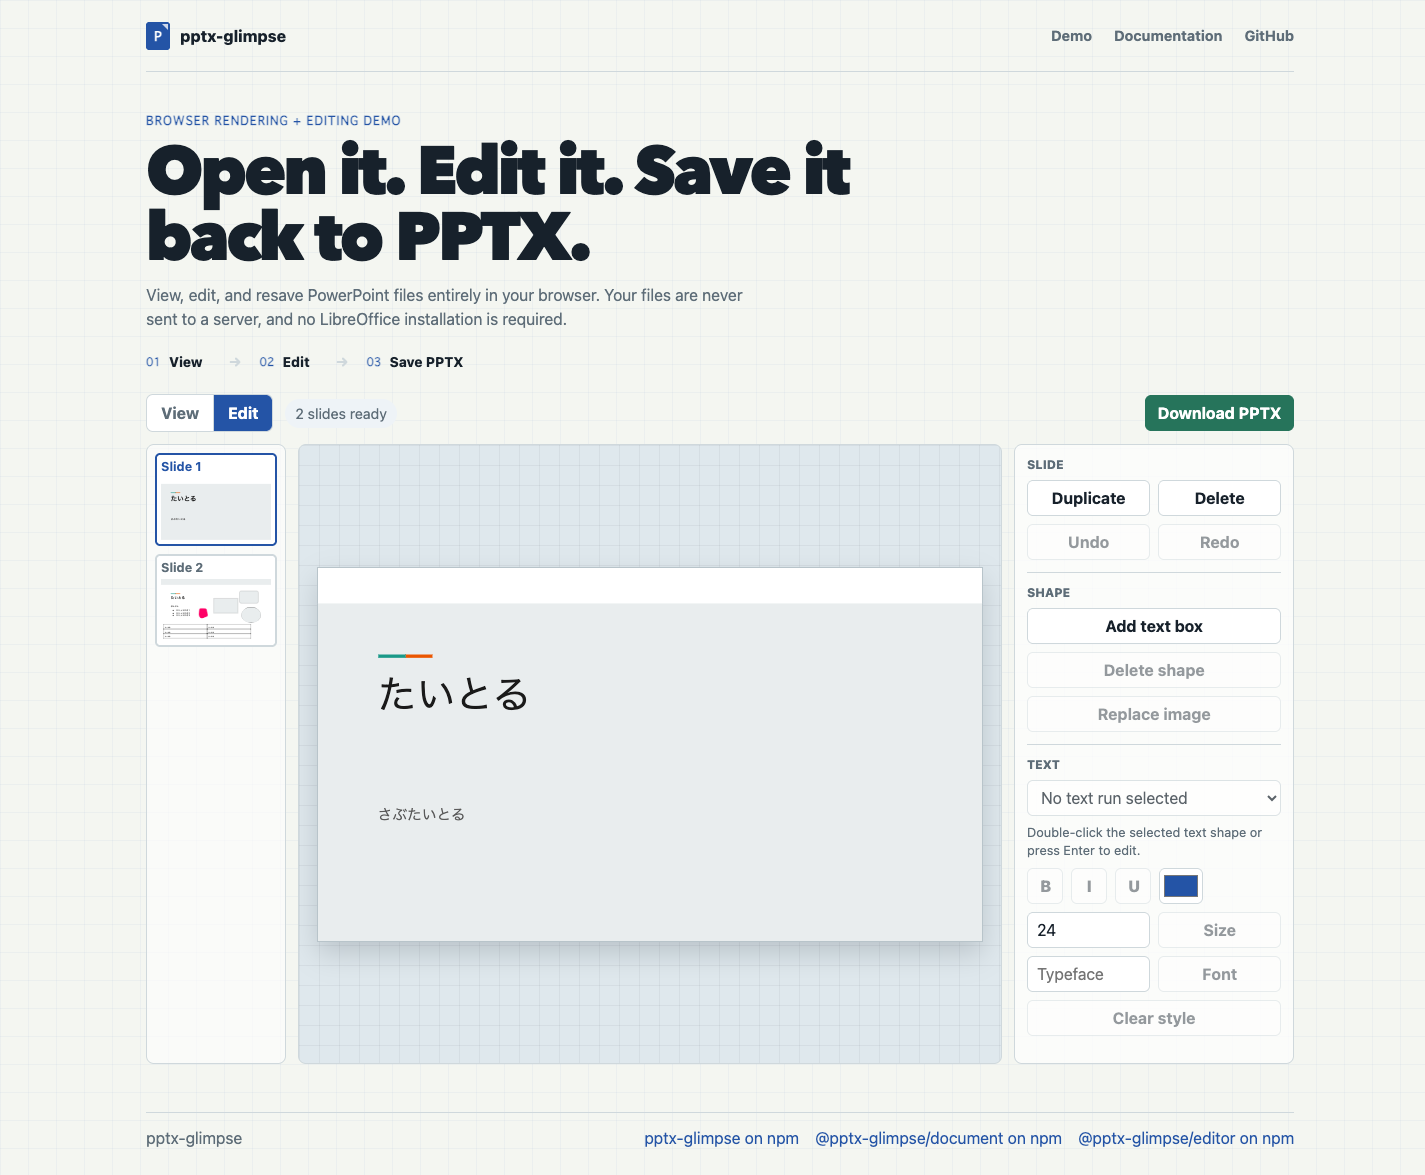
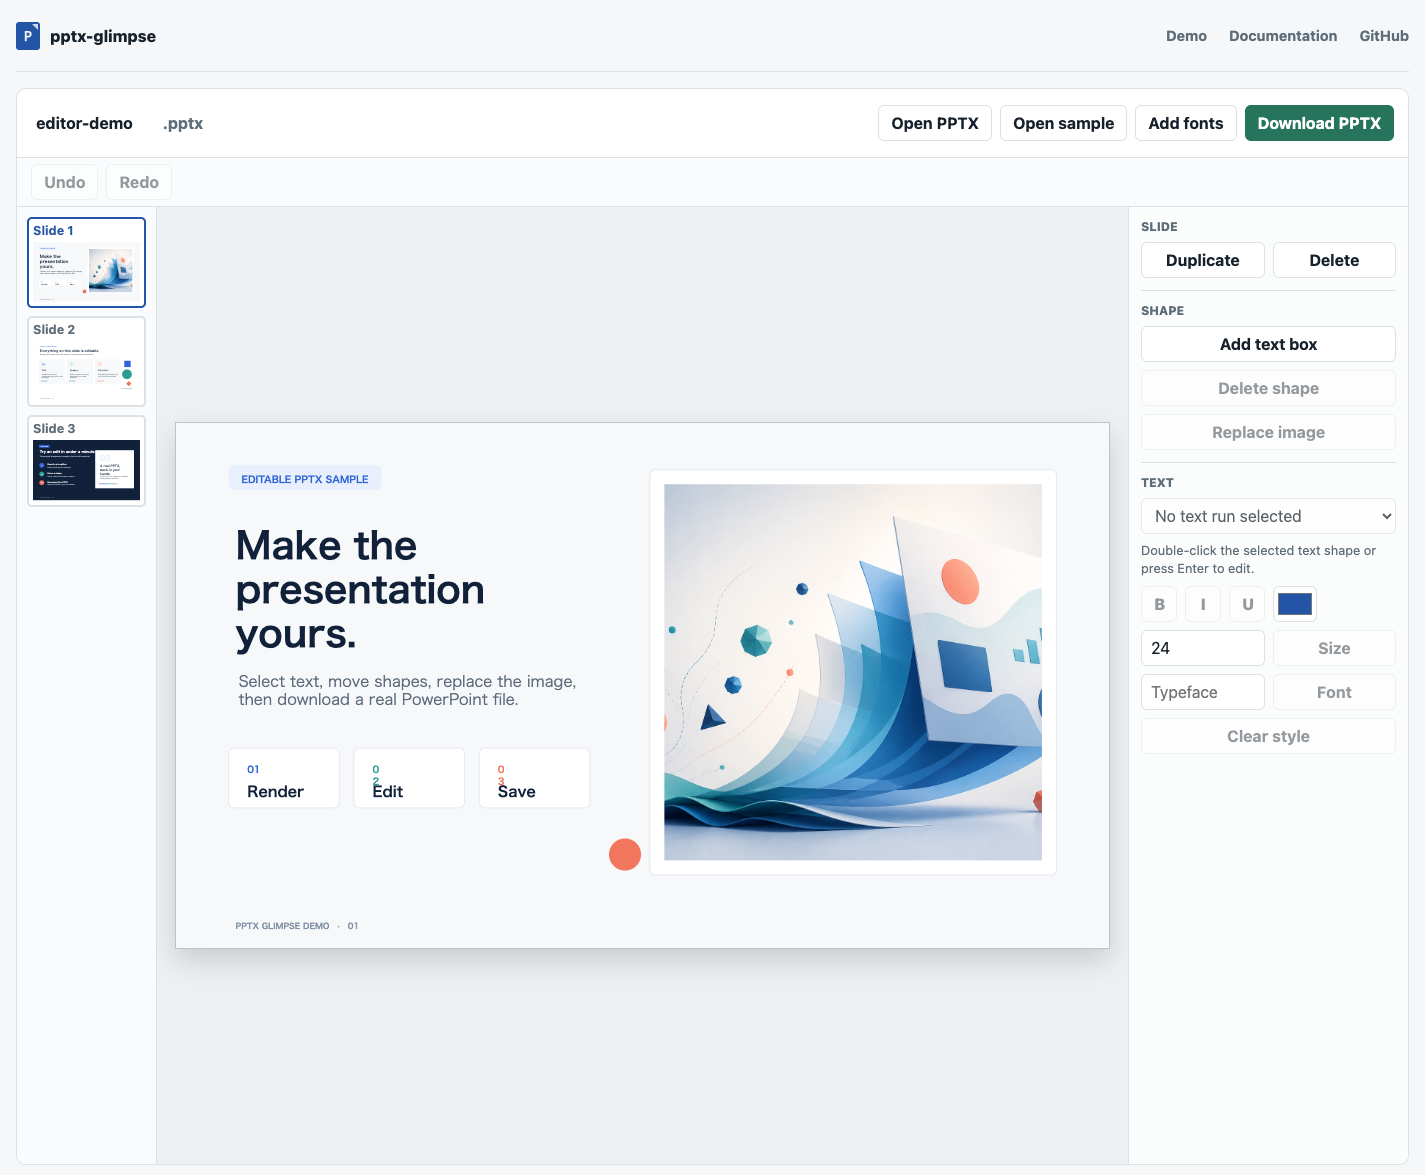
feat(demo): make the download filename editable

diff --git a/e2e/demo-browser-editor.playwright.ts b/e2e/demo-browser-editor.playwright.ts
@@ -84,7 +84,8 @@ test("opens the sample editor first and replaces it with an uploaded PPTX", asyn
 
   await page.goto(demoServer.url);
   await expect(page.getByTestId("editor-workspace")).toBeVisible();
-  await expect(page.getByText("editor-demo.pptx")).toBeVisible();
+  const fileNameInput = page.getByRole("textbox", { name: "Presentation file name" });
+  await expect(fileNameInput).toHaveValue("editor-demo");
   await expect(page.getByRole("button", { name: "Open PPTX" })).toBeVisible();
   await expect(page.getByRole("button", { name: "Download PPTX" })).toBeVisible();
 
@@ -92,7 +93,7 @@ test("opens the sample editor first and replaces it with an uploaded PPTX", asyn
     .getByTestId("pptx-input")
     .setInputFiles(resolve(repoRoot, "shared-fixtures/real-product-page.pptx"));
   await expect(page.getByTestId("editor-workspace")).toBeVisible();
-  await expect(page.getByText("real-product-page.pptx")).toBeVisible();
+  await expect(fileNameInput).toHaveValue("real-product-page");
 
   await page.getByRole("button", { name: "Add text box" }).click();
   page.once("dialog", async (dialog) => {
@@ -100,7 +101,7 @@ test("opens the sample editor first and replaces it with an uploaded PPTX", asyn
     await dialog.dismiss();
   });
   await page.getByRole("button", { name: "Open sample" }).click();
-  await expect(page.getByText("real-product-page.pptx")).toBeVisible();
+  await expect(fileNameInput).toHaveValue("real-product-page");
 
   page.once("dialog", (dialog) => dialog.dismiss());
   await page.getByRole("link", { name: "Documentation" }).click();
@@ -111,13 +112,13 @@ test("opens the sample editor first and replaces it with an uploaded PPTX", asyn
     mimeType: "application/vnd.openxmlformats-officedocument.presentationml.presentation",
     buffer: Buffer.from("not a PPTX"),
   });
-  await expect(page.getByRole("alert")).toBeVisible();
-  await expect(page.getByText("real-product-page.pptx")).toBeVisible();
+  await expect(page.locator(".replacement-error")).toBeVisible();
+  await expect(fileNameInput).toHaveValue("real-product-page");
 
   page.once("dialog", (dialog) => dialog.accept());
   await page.getByRole("button", { name: "Open sample" }).click();
   await expect(page.getByTestId("editor-workspace")).toBeVisible();
-  await expect(page.getByText("editor-demo.pptx")).toBeVisible();
+  await expect(fileNameInput).toHaveValue("editor-demo");
   await expect(
     page.getByRole("heading", { name: "pptx-glimpse browser editor demo" }),
   ).toBeAttached();
@@ -137,6 +138,9 @@ test("runs the public demo browser editor flow entirely client-side", async ({ p
 
     await page.goto(demoServer.url);
     await expect(page.getByTestId("editor-workspace")).toBeVisible();
+    const fileNameInput = page.getByRole("textbox", { name: "Presentation file name" });
+    await expect(fileNameInput).toHaveValue("editor-demo");
+    await fileNameInput.fill("browser-workshop");
 
     const slideFrame = page.getByTestId("editor-slide-frame");
     const firstEditableTextShape = page
@@ -190,7 +194,9 @@ test("runs the public demo browser editor flow entirely client-side", async ({ p
     await directTextRun.fill("Direct edit saved");
     const focusoutDownload = page.waitForEvent("download");
     await page.getByRole("button", { name: "Download PPTX" }).click();
-    await (await focusoutDownload).saveAs(focusoutSavedPath);
+    const focusoutDownloadedFile = await focusoutDownload;
+    expect(focusoutDownloadedFile.suggestedFilename()).toBe("browser-workshop.pptx");
+    await focusoutDownloadedFile.saveAs(focusoutSavedPath);
     await expect(directTextEditor).toHaveCount(0);
     await expect(slideFrame).toContainText("Direct edit saved");
     expect(
@@ -246,7 +252,9 @@ test("runs the public demo browser editor flow entirely client-side", async ({ p
 
     const download = page.waitForEvent("download");
     await page.getByRole("button", { name: "Download PPTX" }).click();
-    await (await download).saveAs(savedPath);
+    const downloadedFile = await download;
+    expect(downloadedFile.suggestedFilename()).toBe("browser-workshop.pptx");
+    await downloadedFile.saveAs(savedPath);
 
     const saved = readPptx(await readFile(savedPath));
     expect(shapeByText(saved, "Direct edit saved")).toBeDefined();

diff --git a/demo/src/components/EditorWorkspace.tsx b/demo/src/components/EditorWorkspace.tsx
@@ -85,6 +85,7 @@ export function EditorWorkspace({
   onOpenPptx,
   onOpenSample,
 }: EditorWorkspaceProps) {
+  const [downloadName, setDownloadName] = useState(() => fileStem(fileName));
   const [editor, setEditor] = useState<EditorSession | null>(null);
   const [slides, setSlides] = useState<PptxEditorSlideSvg[]>([]);
   const [currentIndex, setCurrentIndex] = useState(0);
@@ -139,6 +140,10 @@ export function EditorWorkspace({
   }, [selectedShape]);
 
   const selectedRun = textRuns[selectedRunIndex];
+
+  useEffect(() => {
+    setDownloadName(fileStem(fileName));
+  }, [fileName]);
 
   const syncFromEditor = useCallback(
     (session: EditorSession, preferredIndex = currentIndex) => {
@@ -723,7 +728,7 @@ export function EditorWorkspace({
       );
       const link = document.createElement("a");
       link.href = href;
-      link.download = editedFileName(fileName);
+      link.download = downloadFileName(downloadName, fileName);
       link.click();
       window.setTimeout(() => URL.revokeObjectURL(href), 0);
       dirtyRef.current = false;
@@ -734,7 +739,7 @@ export function EditorWorkspace({
       busyRef.current = false;
       setBusy(false);
     }
-  }, [editor, fileName, waitForDirectTextCommit]);
+  }, [downloadName, editor, fileName, waitForDirectTextCommit]);
 
   if (loadError !== "") {
     return (
@@ -757,7 +762,24 @@ export function EditorWorkspace({
     <section className="editor-workspace" aria-label="PPTX editor" data-testid="editor-workspace">
       <div className="editor-topbar">
         <div className="editor-file">
-          <strong title={fileName}>{fileName}</strong>
+          <label className="editor-file-name">
+            <span className="visually-hidden">Presentation file name</span>
+            <input
+              aria-label="Presentation file name"
+              disabled={busy}
+              maxLength={120}
+              spellCheck={false}
+              style={{
+                width: `${Math.min(Math.max(downloadName.length + 1, 8), 30).toString()}ch`,
+              }}
+              value={downloadName}
+              onBlur={() => {
+                if (downloadName.trim() === "") setDownloadName(fileStem(fileName));
+              }}
+              onChange={(event) => setDownloadName(event.target.value)}
+            />
+            <span aria-hidden="true">.pptx</span>
+          </label>
         </div>
         <div className="editor-status" data-testid="editor-status">
           {message === "" ? null : <span>{message}</span>}
@@ -1283,8 +1305,17 @@ function insertTextAtSelection(text: string): void {
   selection.addRange(range);
 }
 
-function editedFileName(fileName: string): string {
-  return fileName.replace(/\.pptx$/i, "") + ".edited.pptx";
+function fileStem(fileName: string): string {
+  return fileName.replace(/\.pptx$/i, "");
+}
+
+function downloadFileName(downloadName: string, fallbackFileName: string): string {
+  const normalized = downloadName
+    .trim()
+    .replace(/\.pptx$/i, "")
+    .replace(/[/:\\\u0000-\u001f]/g, "-")
+    .replace(/\.+$/g, "");
+  return `${normalized === "" ? fileStem(fallbackFileName) : normalized}.pptx`;
 }
 
 function commandMessage(

diff --git a/demo/src/app/globals.css b/demo/src/app/globals.css
@@ -668,10 +668,41 @@ body {
   min-width: 0;
 }
 
-.editor-file strong {
-  overflow: hidden;
-  text-overflow: ellipsis;
-  white-space: nowrap;
+.editor-file-name {
+  align-items: center;
+  display: flex;
+  font-weight: 700;
+  min-width: 0;
+}
+
+.editor-file-name input {
+  background: transparent;
+  border: 1px solid transparent;
+  border-radius: 5px;
+  color: var(--ink);
+  font: inherit;
+  font-weight: 700;
+  max-width: min(240px, 22vw);
+  min-width: 8ch;
+  padding: 6px 4px;
+}
+
+.editor-file-name input:hover {
+  border-color: var(--line);
+}
+
+.editor-file-name input:focus {
+  background: var(--surface);
+  border-color: var(--blueprint);
+  outline: 3px solid rgba(36, 84, 166, 0.14);
+}
+
+.editor-file-name input:disabled {
+  color: var(--muted);
+}
+
+.editor-file-name > span:last-child {
+  color: var(--muted);
 }
 
 .editor-status {
